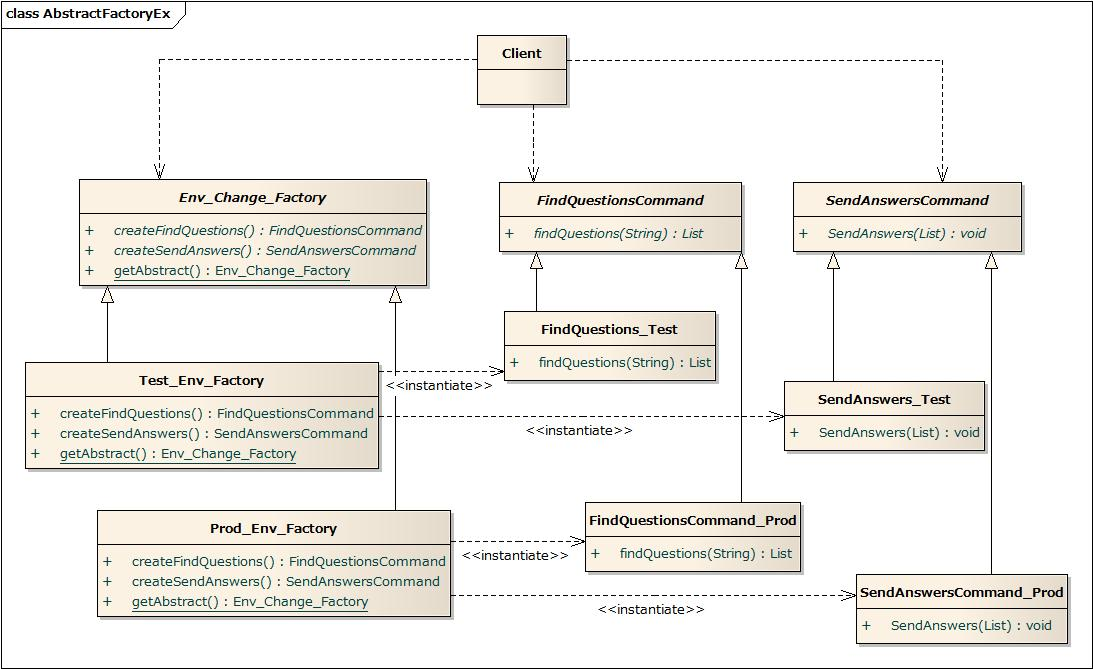
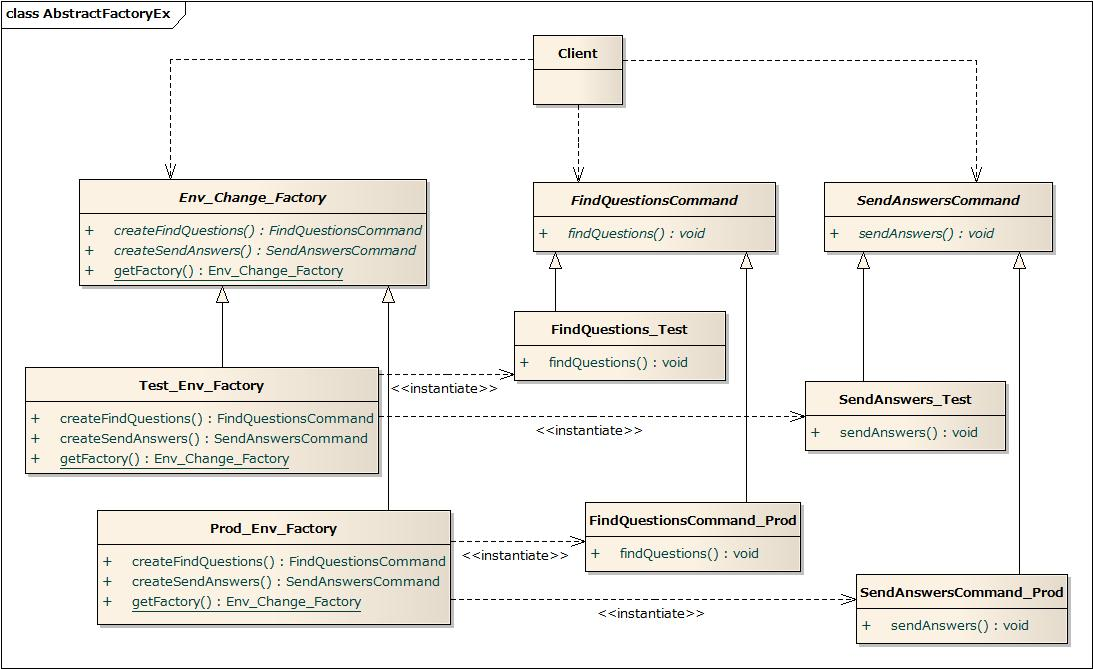
授業課題

diff --git a/Java/DesignPattern/AbstractFactory/Env_Change_Factory.java b/Java/DesignPattern/AbstractFactory/Env_Change_Factory.java
@@ -1,0 +1,36 @@
+import java.io.IOException;
+import java.io.FileNotFoundException;
+import java.io.FileInputStream;
+import java.util.Properties;
+
+public abstract class Env_Change_Factory {
+   public abstract FindQuestionsCommand createFindQuestions();
+   public abstract SendAnswersCommand createSendAnswers();
+
+   public static Env_Change_Factory getFactory(String key){
+      Env_Change_Factory factory = null;
+      Properties prop = new Properties();
+
+      try{
+         prop.load(new FileInputStream("factory.properties"));
+
+         String factoryName = prop.getProperty(key);
+
+         Class c = Class.forName(factoryName);
+
+         factory = (Env_Change_Factory)c.newInstance();
+
+      }catch(FileNotFoundException e){
+         throw new RuntimeException(e.getMessage(), e);
+      }catch(IOException e){
+         throw new RuntimeException(e.getMessage(), e);
+      }catch(ClassNotFoundException e){
+         throw new RuntimeException(e.getMessage(), e);
+      }catch(InstantiationException e){
+         throw new RuntimeException(e.getMessage(), e);
+      }catch(IllegalAccessException e){
+         throw new RuntimeException(e.getMessage(), e);
+      }
+      return factory;
+   }
+}

diff --git a/Java/DesignPattern/AbstractFactory/Client.java b/Java/DesignPattern/AbstractFactory/Client.java
@@ -1,0 +1,17 @@
+import java.util.List;
+import java.util.ArrayList;
+
+public class Client{
+   public void execute(String key){
+      // ConcreteFactoryクラスの取得
+      Env_Change_Factory factory = Env_Change_Factory.getFactory(key);
+
+      // 問題検索クラスと解答提出クラスの取得
+      FindQuestionsCommand  fqc = factory.createFindQuestions();
+      SendAnswersCommand sac = factory.createSendAnswers();
+
+      // メソッドを実行
+      fqc.findQuestions();
+      sac.sendAnswers();
+   }
+}

diff --git a/Java/DesignPattern/AbstractFactory/Prod_Env_Factory.java b/Java/DesignPattern/AbstractFactory/Prod_Env_Factory.java
@@ -1,0 +1,11 @@
+public class Prod_Env_Factory extends Env_Change_Factory{
+   @Override
+   public FindQuestionsCommand createFindQuestions(){
+      return new FindQuestions_Test();
+   }
+
+   @Override
+   public SendAnswersCommand createSendAnswers(){
+      return new SendAnswers_Test();
+   }
+}

diff --git a/Java/DesignPattern/AbstractFactory/Test_Env_Factory.java b/Java/DesignPattern/AbstractFactory/Test_Env_Factory.java
@@ -1,0 +1,9 @@
+public class Test_Env_Factory extends Env_Change_Factory{
+   public FindQuestionsCommand createFindQuestions(){
+      return new FindQuestions_Prod();
+   }
+
+   public SendAnswersCommand createSendAnswers(){
+      return new SendAnswers_Prod();
+   }
+}

diff --git a/Java/DesignPattern/AbstractFactory/AbstractFactoryTest.java b/Java/DesignPattern/AbstractFactory/AbstractFactoryTest.java
@@ -1,7 +1,9 @@
 
 public class AbstractFactoryTest{
    public static void main(String[] args) {
-      //setup
-      
+      Client cl = new Client();
+
+      cl.execute("test");
+      cl.execute("prod");
    }
 }

diff --git a/Java/DesignPattern/AbstractFactory/FindQuestions_Test.java b/Java/DesignPattern/AbstractFactory/FindQuestions_Test.java
@@ -1,0 +1,6 @@
+public class FindQuestions_Test implements FindQuestionsCommand{
+   @Override
+   public void findQuestions(){
+      System.out.println("問題を探します。from テスト環境");
+   }
+}

diff --git a/Java/DesignPattern/AbstractFactory/FindQuestions_Prod.java b/Java/DesignPattern/AbstractFactory/FindQuestions_Prod.java
@@ -1,0 +1,6 @@
+public class FindQuestions_Prod implements FindQuestionsCommand{
+   @Override
+   public void findQuestions(){
+      System.out.println("問題を探します。from 本番環境");
+   }
+}

diff --git a/Java/DesignPattern/AbstractFactory/SendAnswers_Test.java b/Java/DesignPattern/AbstractFactory/SendAnswers_Test.java
@@ -1,0 +1,6 @@
+public class SendAnswers_Test implements SendAnswersCommand{
+   @Override
+   public void sendAnswers(){
+      System.out.println("解答を送りました。from テスト環境");
+   }
+}

diff --git a/Java/DesignPattern/AbstractFactory/SendAnswers_Prod.java b/Java/DesignPattern/AbstractFactory/SendAnswers_Prod.java
@@ -1,0 +1,6 @@
+public class SendAnswers_Prod implements SendAnswersCommand{
+   @Override
+   public void sendAnswers(){
+      System.out.println("解答を送りました。from 本番環境");
+   }
+}

diff --git a/Java/DesignPattern/AbstractFactory/FindQuestionsCommand.java b/Java/DesignPattern/AbstractFactory/FindQuestionsCommand.java
@@ -1,0 +1,3 @@
+public interface FindQuestionsCommand{
+   void findQuestions();
+}

diff --git a/Java/DesignPattern/AbstractFactory/SendAnswersCommand.java b/Java/DesignPattern/AbstractFactory/SendAnswersCommand.java
@@ -1,0 +1,3 @@
+public interface SendAnswersCommand {
+   void sendAnswers();
+}
